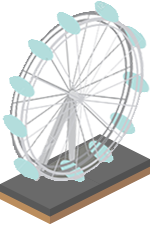
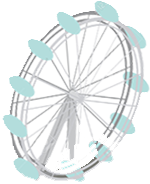
things are moving. badly

diff --git a/app/src/js/application/components/grid/index.js b/app/src/js/application/components/grid/index.js
@@ -4,6 +4,7 @@ import Square from '../../components/square';
 import deepEqual from 'deep-equal';
 import { instantiateImages } from '../../utils/instantiateTerrain';
 import { getSquarePoints } from '../../utils/getSquarePoints';
+import { animations } from '../../constants/animations';
 import _ from 'lodash';
 
 
@@ -20,7 +21,7 @@ export default class Grid {
 		const state = this.store.getState();
 		this.setupCanvas();
 		
-		if(!state.gridSquares) {
+		if(!state.gridSquares.length) {
 			this.setupGridSquares();
 		}
 		
@@ -37,8 +38,8 @@ export default class Grid {
 		});
 
 		Promise.all([terrain,structure]).then(()=>{
-			this.render();
-			this.store.subscribe(this.handleChange.bind(this));	
+			this.startRendering();
+			//this.store.subscribe(this.handleChange.bind(this));	
 		});
 	}
 
@@ -82,6 +83,9 @@ export default class Grid {
 			});
 		});
 
+		this.updateAnimations();
+
+		// performance testing [active with debug flag in settings]
 		let finish = Math.floor(window.performance.now() - start);
 		state.settings.debug && console.log(`${finish}ms to render`);
 	}
@@ -119,9 +123,26 @@ export default class Grid {
 			this.ctx.globalCompositeOperation = 'source-over';
 
 			if(image) {
+				this.ctx.save();
+				
+				if(square.transform) {
+					this.ctx.moveTo(x, (y - image.height/2 + 8) + offsetY);
+					this.ctx.transform(...square.transform);
+
+				}
+				
 				this.ctx.drawImage(image, x, (y - image.height/2 + 8) + offsetY);
+				this.ctx.restore();
 			}
 		}
+	}
+
+	startRendering() {
+		this.renderInterval = setInterval(this.render.bind(this), 16);
+	}
+
+	stopRendering() {
+		clearInterval(this.renderInterval);
 	}
 
 	handleChange() {
@@ -130,6 +151,23 @@ export default class Grid {
 		if(!deepEqual(newVal,this.currentValue,{ strict: true })) {
 			this.currentValue = _.cloneDeep(newVal);
 			this.render();
+		}
+	}
+
+	updateAnimations() {
+		const grid = this.store.getState().gridSquares;
+
+		grid.forEach(row => {
+			row.forEach(square => {
+				this.updateAnimation(square);
+			})
+		})
+	}
+
+	updateAnimation(square) {
+		if(this.structure[square.brushes.structure] && this.structure[square.brushes.structure].animation && animations[this.structure[square.brushes.structure].animation]) {
+			let animation = this.structure[square.brushes.structure].animation;
+			animations[animation](square);
 		}
 	}
 

diff --git a/app/src/js/application/constants/terrain.js b/app/src/js/application/constants/terrain.js
@@ -1,29 +1,29 @@
-export const terrain = {
-	0: {
+export const terrain = [
+	{
 		imageSrc: null
 	},
-	1: {
+	{
 		imageSrc: '/assets/grass.png'
 	},
-	2: {
+	{
 		imageSrc: '/assets/concrete.png'
 	},
-	3: {
+	{
 		imageSrc: '/assets/roadSE.png'
 	},
-	4: {
+	{
 		imageSrc: '/assets/roadNW.png'
 	},
-	5: {
+	{
 		imageSrc: '/assets/roadCornerSW.png'
 	},
-	6: {
+	{
 		imageSrc: '/assets/roadCornerSE.png'
 	},
-	7: {
+	{
 		imageSrc: '/assets/roadCornerNW.png'
 	},
-	8: {
+	{
 		imageSrc: '/assets/roadCornerNE.png'
 	}
-}
+]

diff --git a/app/src/js/configuration/defaultState.js b/app/src/js/configuration/defaultState.js
@@ -1,10 +1,10 @@
 import { terrain } from '../application/constants/terrain';
-import { buildings } from '../application/constants/buildings';
+import { structure } from '../application/constants/structure';
 
 export const defaultState = {
 	assets: {
-		terrain: [],
-		structures: []
+		terrain,
+		structure
 	},
 	gridSquares: [],
 	settings: {

diff --git a/app/src/js/application/constants/structure.js b/app/src/js/application/constants/structure.js
@@ -1,11 +1,14 @@
-export const buildings = {
-	b1: {
+export const structure = [
+	{
+		imageSrc: false
+	},
+	{
 		imageSrc: '/assets/parliament.png'
 	},
-	b2: {
+	{
 		imageSrc: '/assets/londoneye.png'
 	},
-	b3: {
+	{
 		imageSrc: '/assets/londonbridge.png'
 	}
-}
+]

diff --git a/app/src/js/application/constants/animations.js b/app/src/js/application/constants/animations.js
@@ -1,0 +1,7 @@
+export const animations = {
+	spin: (square) => {
+		square.transform = square.transform || [1, 0, 0, 1, 0, 0];
+
+		square.transform[2] += 0.001;
+	}
+}
